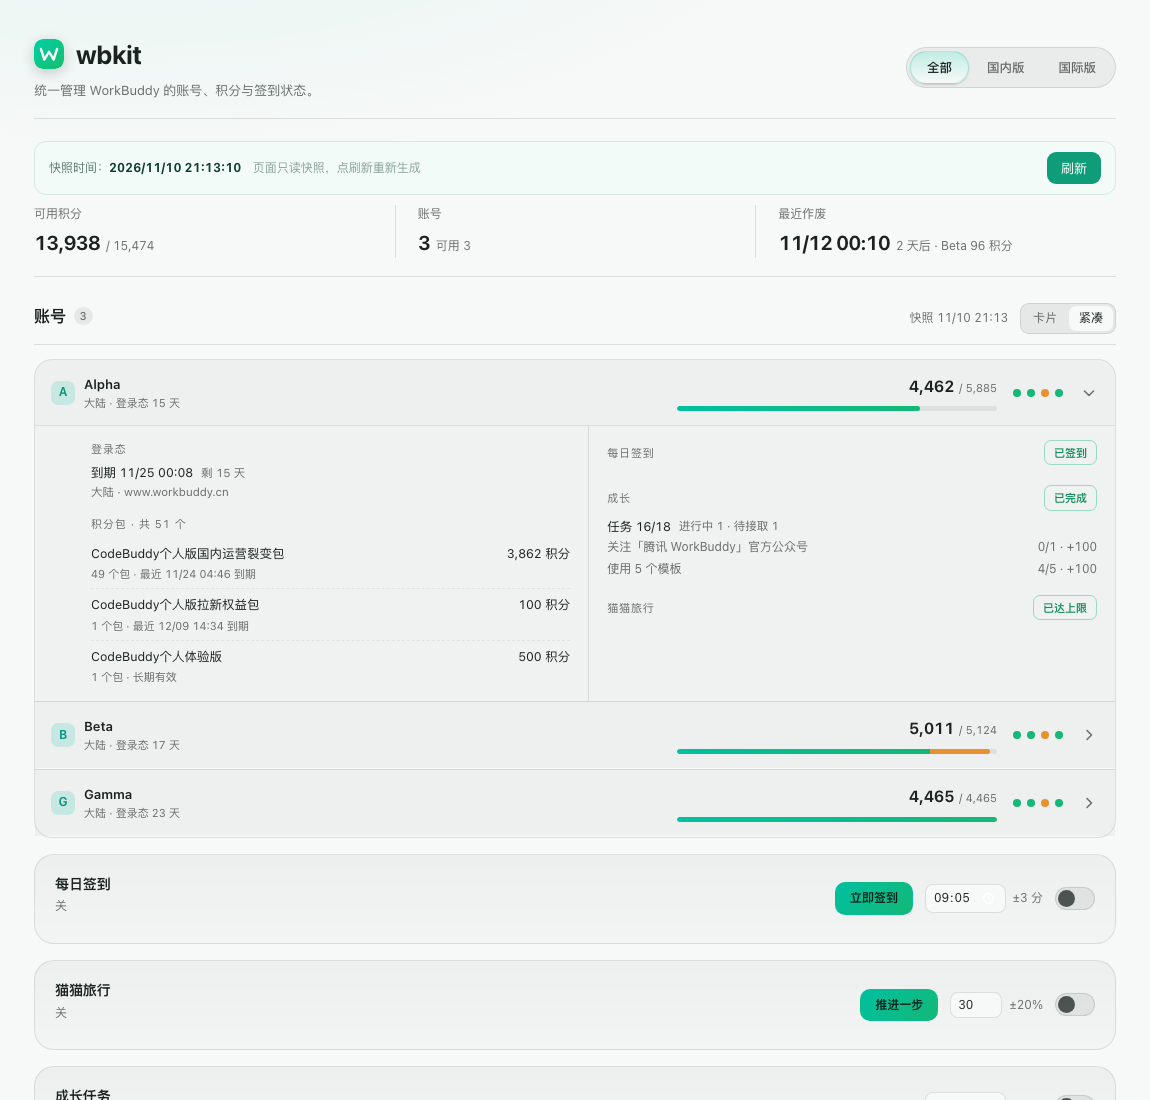
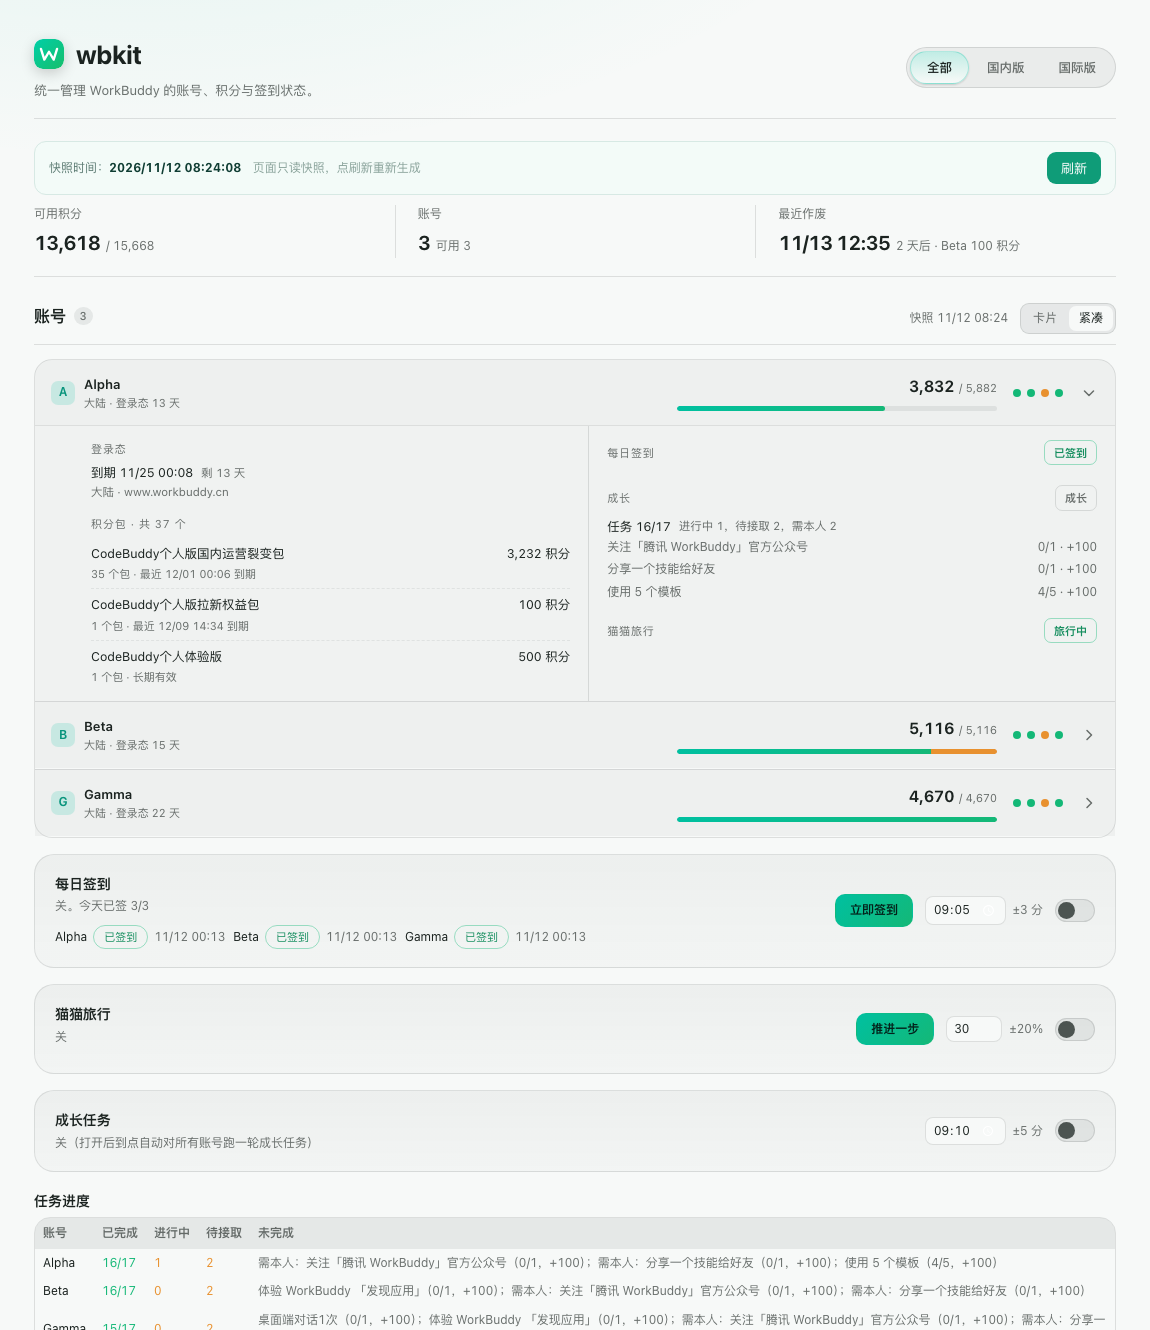
fix: 签到状态读不到 + 成长按钮与状态点口径统一 (v0.5.10)
- 快照顶层 checkin.accounts 合并行级记录，原生/钩子签过也能显示，丢掉非今天的旧账
- 每日签到卡片列出每个账号状态与「今天已签 N/M」
- 新增 growthState()，按钮与状态点同源，不再一个已完成一个橙色
- manual（unforgeable）任务不计入完成度，完成度改 autoDone/autoTotal
- 任务进度表同步，未完成列标出需本人项并加说明

diff --git a/page/app.js b/page/app.js
@@ -134,6 +134,17 @@ function actionZh(a) {
 }
 
 // 今天是否已签到：已签到时不再显示「签到」按钮，避免和状态胶囊重复
+// 成长的唯一口径：按钮和状态点都从这里取，避免「按钮已完成、点还是橙色」。
+// manual（unforgeable）任务必须本人去点，自动流水线永远做不完，不能算进完成度。
+function growthState(a) {
+  const ts = a.taskStats
+  if (!ts) return { known: false, done: false, progress: false }
+  const total = Number(ts.autoTotal ?? ts.total) || 0
+  const done = Number(ts.autoDone ?? ts.done) || 0
+  const active = Number(ts.active) || 0
+  return { known: true, done: total > 0 && done >= total, progress: done > 0 || active > 0 }
+}
+
 const actionDone = (action, a) => {
   if (action === 'checkin') return checkedToday(a)
   if (action === 'travel') {
@@ -142,12 +153,7 @@ const actionDone = (action, a) => {
     const la = a.lastAction
     return isTraveling || (la && la.action === 'travel' && la.ok)
   }
-  if (action === 'growth') {
-    const ts = a.taskStats
-    const allDone = !!(ts && ts.done === ts.total && ts.notAccepted === 0)
-    const la = a.lastAction
-    return allDone || (la && la.action === 'growth' && la.ok)
-  }
+  if (action === 'growth') return growthState(a).done
   return false
 }
 
@@ -297,10 +303,16 @@ function compactRow(a, initialOpen = false) {
   addDot(a.error || a.health === 'error' ? 'warn' : a.health === 'ok' ? 'ok' : 'warn', a.error ? '登录异常' : a.health === 'ok' ? '可用' : a.healthNote || '待实测')
   const signed = checkedToday(a)
   addDot(signed ? 'ok' : '', signed ? '已签到' : '未签到')
+  const gs = growthState(a)
   const tsDot = a.taskStats
-  const gDone = !!(tsDot && tsDot.done === tsDot.total && tsDot.notAccepted === 0)
-  const gProgress = !!(tsDot && (tsDot.active > 0 || tsDot.done > 0))
-  addDot(gDone ? 'ok' : gProgress ? 'warn' : '', gDone ? '成长完成' : tsDot ? `成长 ${tsDot.done}/${tsDot.total}` : '无成长任务')
+  addDot(
+    gs.done ? 'ok' : gs.progress ? 'warn' : '',
+    gs.done
+      ? (tsDot && tsDot.manual ? `成长完成，另有 ${tsDot.manual} 项需本人完成` : '成长完成')
+      : tsDot
+        ? `成长 ${tsDot.autoDone ?? tsDot.done}/${tsDot.autoTotal ?? tsDot.total}${tsDot.manual ? `，需本人 ${tsDot.manual}` : ''}`
+        : '无成长任务',
+  )
   const tvDot = travelRowOf(a)
   const travelCls = tvDot?.state === 'traveling' ? 'ok' : tvDot?.dailyLimitReached ? 'ok' : ''
   addDot(travelCls, tvDot?.state === 'traveling' ? '旅行中' : tvDot?.dailyLimitReached ? '今日已达上限' : '可旅行')
@@ -377,7 +389,10 @@ function compactRow(a, initialOpen = false) {
 
   const ts = a.taskStats
   const gr = secAct('成长', 'growth')
-  gr.append(kv(el('span', null, ts ? `任务 ${ts.done}/${ts.total}` : a.tasksError ? '读取失败' : '暂无任务快照'), el('span', 'c-muted', ts ? `进行中 ${ts.active} · 待接取 ${ts.notAccepted}` : '')))
+  gr.append(kv(
+    el('span', null, ts ? `任务 ${ts.autoDone ?? ts.done}/${ts.autoTotal ?? ts.total}` : a.tasksError ? '读取失败' : '暂无任务快照'),
+    el('span', 'c-muted', ts ? `进行中 ${ts.active}，待接取 ${ts.notAccepted}${ts.manual ? `，需本人 ${ts.manual}` : ''}` : ''),
+  ))
   for (const t of (a.tasks || []).filter((x) => !(x.target > 0 && x.current >= x.target)).slice(0, 3)) {
     const trow = el('div', 'c-task-row')
     trow.append(el('span', 'c-task-name', t.title), el('span', 'c-task-meta', `${t.current}/${t.target}${t.reward ? ` · +${t.reward}` : ''}`))
@@ -448,8 +463,22 @@ function paintControl() {
   if (ck.at) time.value = ck.at
   const isOn = ck.enabled === true
 
-  sub.textContent = isOn ? `已开，${ck.at}（±3 分钟防风控）` : '关'
+  const signed = accounts().filter((a) => checkedToday(a)).length
+  const total = accounts().length
+  const base = isOn ? `已开，${ck.at}（±3 分钟防风控）` : '关'
+  sub.textContent = total ? `${base}。今天已签 ${signed}/${total}` : base
+  // 每个账号一行状态：原生插件 / 插件钩子签过也算，不用 wbkit 自己跑过
   rows.replaceChildren()
+  for (const a of accounts()) {
+    const ckRow = checkinRowOf(a)
+    const ok = checkedToday(a)
+    const line = el('span', 'ck-acc')
+    line.append(el('span', 'ck-name', a.label))
+    line.append(el('span', `pill ${ok ? 'ok' : 'warn'}`, ok ? '已签到' : '未签到'))
+    if (ckRow?.at) line.append(el('span', 'ck-when', md(ckRow.at)))
+    else if (a.checkin?.at) line.append(el('span', 'ck-when', md(a.checkin.at)))
+    rows.append(line)
+  }
 
   const save = async (patch) => {
     try {

diff --git a/page/panels.js b/page/panels.js
@@ -54,17 +54,18 @@
   if (withTasks.length) {
     const rows = withTasks.map((a) => {
       const st = a.taskStats
+      // 未完成列把「需本人完成」的任务也列出来并标注，否则待接取 2 却看不出是哪两个
       const open = (a.tasks || [])
-        .filter((t) => !(t.target > 0 && t.current >= t.target) && !t.manual)
+        .filter((t) => !(t.target > 0 && t.current >= t.target))
         .slice(0, 4)
-        .map((t) => `${esc(t.title)}（${esc(t.current)}/${esc(t.target)}${t.reward ? `，+${esc(t.reward)}` : ''}）`)
+        .map((t) => `${t.manual ? '需本人：' : ''}${esc(t.title)}（${esc(t.current)}/${esc(t.target)}${t.reward ? `，+${esc(t.reward)}` : ''}）`)
         .join('；')
       return `<tr>
         <td style="padding:5px 8px;white-space:nowrap">${esc(a.label)}</td>
-        <td style="padding:5px 8px;color:var(--green)">${esc(st.done)}/${esc(st.total)}</td>
+        <td style="padding:5px 8px;color:var(--green)">${esc(st.autoDone ?? st.done)}/${esc(st.autoTotal ?? st.total)}</td>
         <td style="padding:5px 8px;color:var(--orange)">${esc(st.active)}</td>
         <td style="padding:5px 8px;color:var(--orange)">${esc(st.notAccepted)}</td>
-        <td style="padding:5px 8px;color:var(--muted)">${open || (a.tasksError ? esc(a.tasksError) : '—')}</td>
+        <td style="padding:5px 8px;color:var(--muted)">${open || (a.tasksError ? esc(a.tasksError) : '无')}</td>
       </tr>`
     }).join('')
     const sec = el('section')
@@ -73,9 +74,10 @@
       <div style="overflow:auto;border:1px solid var(--line);border-radius:var(--radius)">
       <table style="width:100%;border-collapse:collapse;font-size:12px">
         <thead><tr style="background:var(--surface-2);color:var(--muted);text-align:left">
-          <th style="padding:6px 8px">账号</th><th style="padding:6px 8px">已完成</th>
-          <th style="padding:6px 8px">进行中</th><th style="padding:6px 8px">待接取</th><th style="padding:6px 8px">未完成</th>
-        </tr></thead><tbody>${rows}</tbody></table></div>`
+          <th style="padding:6px 8px;white-space:nowrap">账号</th><th style="padding:6px 8px;white-space:nowrap">已完成</th>
+          <th style="padding:6px 8px;white-space:nowrap">进行中</th><th style="padding:6px 8px;white-space:nowrap">待接取</th><th style="padding:6px 8px;white-space:nowrap">未完成</th>
+        </tr></thead><tbody>${rows}</tbody></table></div>
+      <p style="margin:6px 0 0;font-size:11px;color:var(--muted)">已完成只统计插件能自动做的任务；标「需本人」的要你自己去 WorkBuddy 里点。</p>`
     autoPanel.insertAdjacentElement('afterend', sec)
   }
 })()

diff --git a/page/index.html b/page/index.html
@@ -4,12 +4,12 @@
     <meta charset="utf-8" />
     <meta name="viewport" content="width=device-width, initial-scale=1" />
     <title>wbkit</title>
-    <link rel="stylesheet" href="style.css?v=20261108-2" />
+    <link rel="stylesheet" href="style.css?v=20261112-1" />
     <script src="_magpie/bridge.js"></script>
     <script src="data.js"></script>
-    <script src="app.js?v=20261108-2" defer></script>
-    <script src="panels.js?v=20261108-2" defer></script>
-    <script src="servicebar.js?v=20261108-2" defer></script>
+    <script src="app.js?v=20261112-1" defer></script>
+    <script src="panels.js?v=20261112-1" defer></script>
+    <script src="servicebar.js?v=20261112-1" defer></script>
   </head>
   <body>
     <header class="top">

diff --git a/CHANGELOG.md b/CHANGELOG.md
@@ -1,5 +1,16 @@
 # 更新记录
 
+## v0.5.10
+
+**修：签到状态读不到、成长「已完成」与状态点打架**
+
+- 修：magpie auth 插件（或 magpie 原生签到）已经签过，wbkit 页面却看不到。原因是快照顶层的 `checkin.accounts` 只读 wbkit 自己的 state 文件，那份可能停在几天前；行级记录其实已经识别到今天。现在顶层会把行级记录合并进来（同一账号以行级为准），并丢掉非今天的旧账
+- 每日签到卡片现在列出每个账号的签到状态（已签到 / 未签到 + 时间），副标题显示「今天已签 N/M」，不用再点开账号详情才能确认
+- 修：成长任务跑过一次后按钮变「已完成」，但紧凑行状态点还是橙色。两处用了不同判定（按钮看 `lastAction.ok`，状态点看 `done === total`）。现在统一走一个 `growthState()`，按钮和状态点同源
+- 修：`需本人完成`（manual / unforgeable）的任务永远做不完，却被算进完成度，导致「已完成」永远到不了。现在完成度只按插件能自动做的任务算（`autoDone / autoTotal`），manual 单独计数
+- 任务进度表同步改成 `autoDone/autoTotal`，「未完成」列会标出哪些需本人去做，表下加一行说明
+- 测试 73 条
+
 ## v0.5.9
 
 - 修：刷新按钮的转圈一直转，用户没点也在转。`.spin` 的 `display: inline-block` 盖掉了 `hidden` 自带的 `display: none`，补一条 `.spin[hidden] { display: none }`

diff --git a/README.md b/README.md
@@ -3,7 +3,7 @@
 **补在社区插件后面的那一半。**
 供应商、登录、请求签名与余额交给 [`@magpie-community/opencode-workbuddy-auth`](https://github.com/magpie-community/plugins/tree/main/packages/workbuddy)；wbkit 补上它没有的：账号池、每日签到补位、猫猫旅行、批量成长任务、模型目录、官方用量，以及一个能一眼看完所有账号的页面。
 
-> 版本 `0.5.9` · magpie 插件 · 零 npm 依赖 · MIT
+> 版本 `0.5.10` · magpie 插件 · 零 npm 依赖 · MIT
 
 ```
 @magpie-community/opencode-workbuddy-auth   →  WorkBuddy 供应商 / 登录 / 余额
